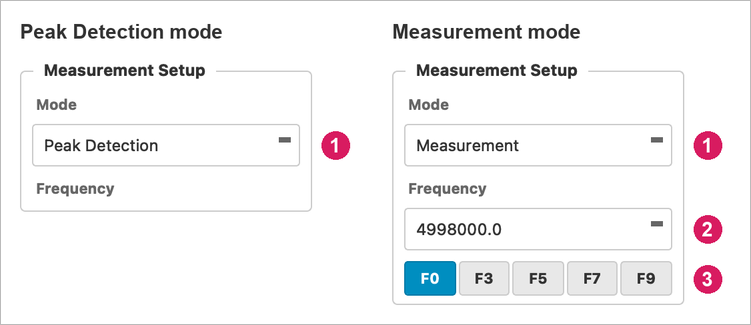
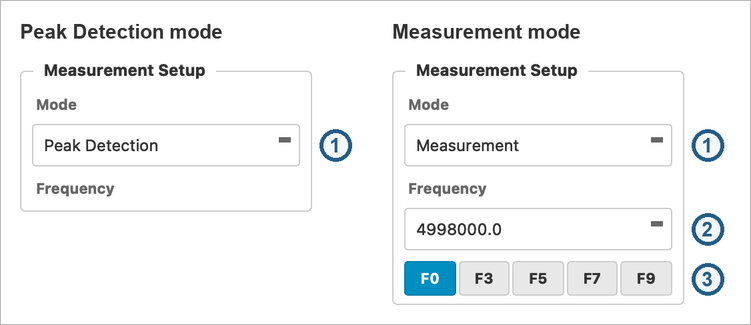
Use the Figure 1 palette for screenshot callouts
The magenta accent competed with the GUI's own colours and did not match
the manual's schematics. Callouts now use the qcm_signal_chain.svg
palette: circles filled #F3F7FA with a thick #245D86 edge and a #245D86
number, and highlight boxes outlined in #245D86. The thick edge keeps the
circles readable on white plots, grey sidebars and dialog backgrounds; a
stronger #DCE8F2 fill was tried and made no visible difference.

All annotated images were regenerated from raw/.

diff --git a/docs/tools/annotate_gui.py b/docs/tools/annotate_gui.py
@@ -27,9 +27,13 @@ GUI_DIR = os.path.join(REPO_ROOT, 'docs', 'user-manual', 'assets', 'gui')
 RAW_DIR = os.path.join(GUI_DIR, 'raw')
 
 SCALE = 1600 / 2400          # full main window (2400 px raw) -> 1600 px
-ACCENT = (216, 27, 96)       # distinct from the GUI's blue and orange
+# Palette of the manual's schematics (qcm_signal_chain.svg), so callouts
+# match Figure 1 instead of competing with the GUI's own colours.
+INK = (0x24, 0x5D, 0x86)
+CIRCLE_FILL = (0xF3, 0xF7, 0xFA)
 BORDER = (187, 187, 187)
 CIRCLE_R = 24
+CIRCLE_EDGE_W = 6
 BOX_W = 5
 
 _FONT_DIRS = ['/System/Library/Fonts/Supplemental', '/Library/Fonts',
@@ -64,12 +68,12 @@ def pad(img, left=0, top=0, right=0, bottom=0, color=(255, 255, 255)):
 def callout(draw, n, xy):
     x, y = xy
     draw.ellipse([x - CIRCLE_R, y - CIRCLE_R, x + CIRCLE_R, y + CIRCLE_R],
-                 fill=ACCENT, outline=(255, 255, 255), width=3)
-    draw.text((x, y), str(n), font=NUM_FONT, fill=(255, 255, 255), anchor='mm')
+                 fill=CIRCLE_FILL, outline=INK, width=CIRCLE_EDGE_W)
+    draw.text((x, y), str(n), font=NUM_FONT, fill=INK, anchor='mm')
 
 
 def box(draw, rect):
-    draw.rounded_rectangle(rect, radius=10, outline=ACCENT, width=BOX_W)
+    draw.rounded_rectangle(rect, radius=10, outline=INK, width=BOX_W)
 
 
 def heading(draw, xy, text):
